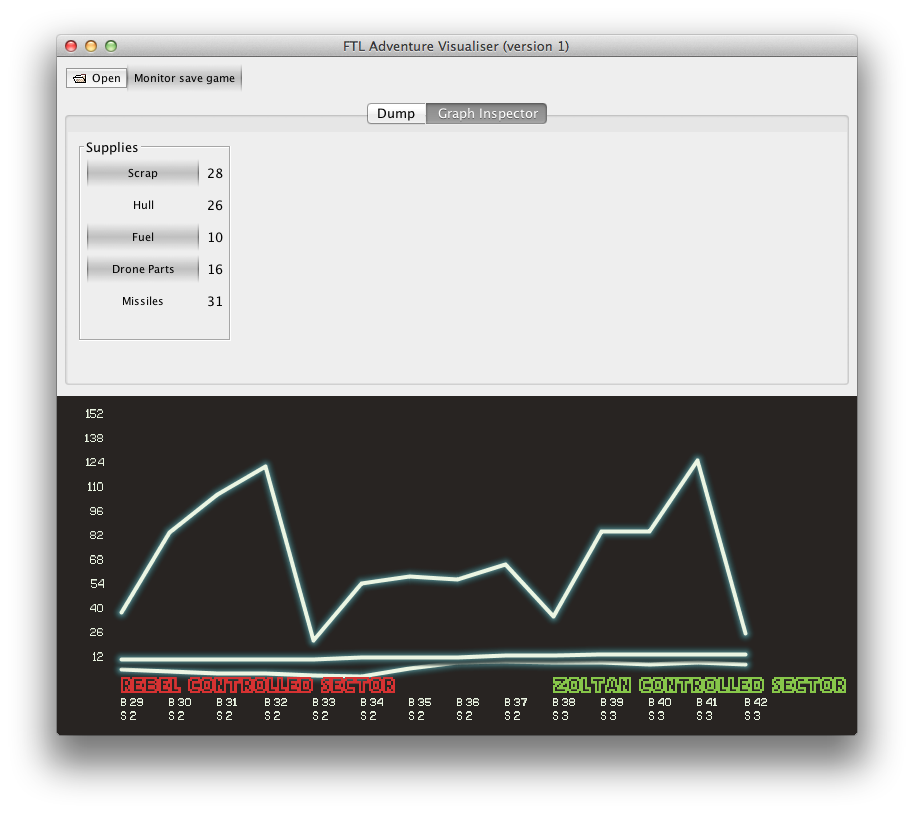
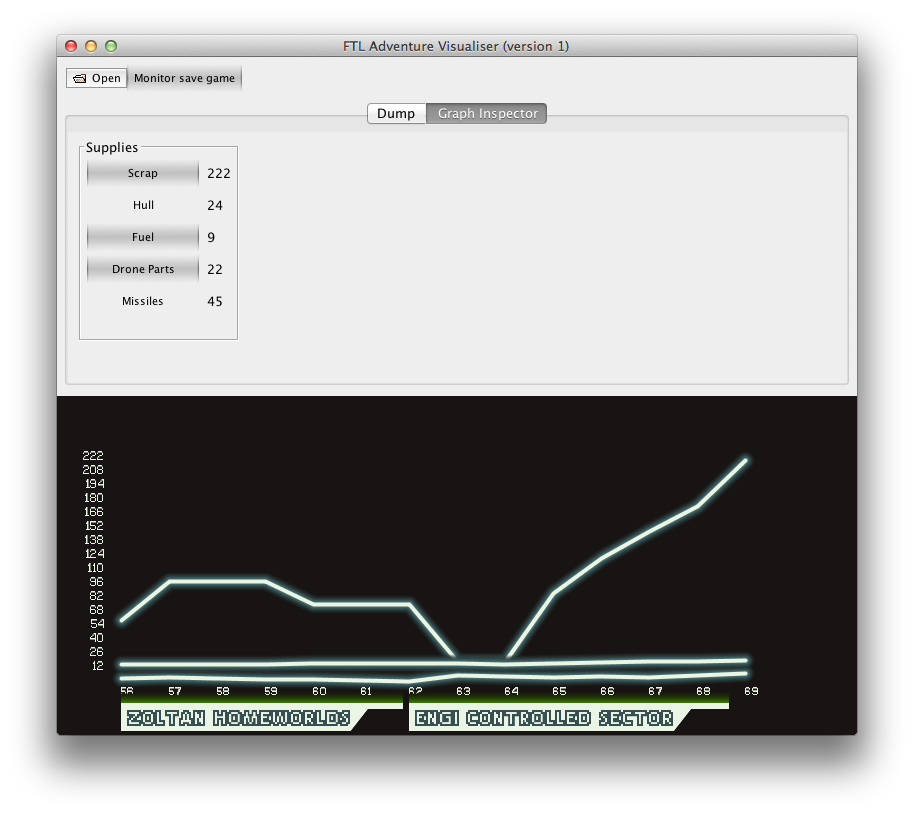
Better looking sector labels

Changed region(s): [[0.0919, 0.4914, 0.9497, 0.9214], [0.2144, 0.2764, 0.2451, 0.3378]]

diff --git a/src/main/java/net/ntg/ftl/ui/graph/GraphRenderer.java b/src/main/java/net/ntg/ftl/ui/graph/GraphRenderer.java
@@ -47,7 +47,43 @@ public class GraphRenderer extends PApplet {
 		color(36, 47, 46, 28)
 	};
 
-	Map<String,Integer> sectorTypeColor = new HashMap<String,Integer>();
+	int[] greenGlow = {
+		color(235, 245, 229, 255),
+		color(66, 119, 17, 226),
+		color(53, 106, 4, 198),
+		color(45, 92, 1, 170),
+		color(40, 80, 1, 141),
+		color(36, 72, 1, 113),
+		color(32, 65, 1, 85),
+		color(30, 61, 1, 56),
+		color(29, 58, 1, 25)
+	};
+
+	int[] redGlow = {
+		color(235, 245, 229, 255),
+		color(182, 30, 30, 226),
+		color(162, 24, 24, 198),
+		color(140, 19, 19, 170),
+		color(122, 14, 14, 141),
+		color(112, 11, 11, 113),
+		color(100, 7, 7, 85),
+		color(93, 7, 7, 56),
+		color(88, 5, 5, 25)
+	};
+
+	int[] purpleGlow = {
+		color(235, 245, 229, 255),
+		color(130, 4, 165, 226),
+		color(117, 1, 150, 198),
+		color(106, 1, 135, 170),
+		color(95, 1, 121, 141),
+		color(90, 1, 115, 113),
+		color(83, 1, 106, 85),
+		color(74, 1, 95, 56),
+		color(70, 1, 90, 25)
+	};
+
+	Map<String,Integer> hudColor = new HashMap<String,Integer>();
 
 
 	public void setup() {
@@ -59,15 +95,29 @@ public class GraphRenderer extends PApplet {
 		canvasHeight= panelHeight - (margin * 2);
 
 		// graphics
-		background(40, 36, 34);
-
 		mainFont      = loadFont(ClassLoader.getSystemResource("C&CRedAlertINET-48.vlw").toString());
-		headerFont    = loadFont(ClassLoader.getSystemResource("Half-Life1-48.vlw").toString());
-		headerFontAlt = loadFont(ClassLoader.getSystemResource("Half-Life2-48.vlw").toString());
+		headerFont    = loadFont(ClassLoader.getSystemResource("Half-Life2-48.vlw").toString());
+		headerFontAlt = loadFont(ClassLoader.getSystemResource("Half-Life1-48.vlw").toString());
 
-		sectorTypeColor.put( "CIVILIAN", color( 135, 199, 74 ) );
-		sectorTypeColor.put( "HOSTILE", color( 214, 50, 50 ) );
-		sectorTypeColor.put( "NEBULA", color( 128, 51, 210 ) );
+		hudColor.put( "BG_NORMAL", color( 55, 45, 46 ) );			// dark purple brown 	(background color)
+		hudColor.put( "BG_LIGHT", color( 122, 100, 99 ) );			// light purple brown	(background color)
+		hudColor.put( "BG_DARK", color( 24, 20, 19 ) );				// dark brown			(background color)
+		hudColor.put( "BORDER", color( 235, 245, 229 ) );			// white-greenish		(panel border color)
+		hudColor.put( "BUTTON", color( 235, 245, 229 ) );			// white-greenish		(button color)
+		hudColor.put( "BUTTON_ACTIVE", color( 255, 230, 94 ) );		// yellow				(button color)
+		hudColor.put( "MAINTEXT", color( 255, 255, 255 ) );			// white				(standard text color)
+		hudColor.put( "HEADERTEXT", color( 65, 120, 128 ) );		// turquoise			(standard text color)
+		hudColor.put( "HEADERTEXT_ALT", color( 54, 78, 80 ) );		// dark turquoise		(standard text color)
+		hudColor.put( "SECTOR_CIVILIAN", color( 135, 199, 74 ) );	// bright green			(sector color)
+		hudColor.put( "SECTOR_HOSTILE", color( 214, 50, 50 ) );		// bright red			(sector color)
+		hudColor.put( "SECTOR_NEBULA", color( 128, 51, 210 ) );		// pure purple			(sector color)
+		hudColor.put( "SYSTEM_ACTIVE", color( 100, 255, 99 ) );		// bright green			(system status color)
+		hudColor.put( "SYSTEM_OFF", color( 211, 211, 211 ) );		// light grey			(system status color)
+		hudColor.put( "SYSTEM_DAMAGE", color( 248, 59, 51 ) );		// bright red			(system status color)
+		hudColor.put( "SYSTEM_HACKED", color( 212, 70, 253 ) );		// magenta				(system status color)
+		hudColor.put( "SYSTEM_IONIZED", color( 133, 231, 237 ) );	// cyan					(system status color)
+
+		background(hudColor.get("BG_DARK"));
 
 	}
 
@@ -79,7 +129,7 @@ public class GraphRenderer extends PApplet {
 
 		if (current > previous) {
 
-			background(40, 36, 34);
+			background(hudColor.get("BG_DARK"));
 
 			for (int a = 0; a < superArray.size(); ++a) {
 
@@ -94,7 +144,7 @@ public class GraphRenderer extends PApplet {
 					beginShape();
 					for (int b = 0; b < superArray.get(a).size(); ++b) {
 						vertex(
-							margin + canvasWidth / superArray.get(a).size() * b,
+							margin + (canvasWidth / superArray.get(a).size()) * b,
 							map(
 								superArray.get(a).get(b),
 								0, ceiling,
@@ -108,37 +158,24 @@ public class GraphRenderer extends PApplet {
 				// graph x labels
 				noStroke();
 				for (int b = 0; b < superArray.get(a).size(); ++b) {
-					fill(235, 245, 227);
-					textFont(mainFont, 15);
-					textAlign(LEFT, TOP);
-					text(
-						"B " + FTLAdventureVisualiser.gameStateArray.get(b).getTotalBeaconsExplored()+"\n"+
-						"S " + FTLAdventureVisualiser.gameStateArray.get(b).getSectorNumber(),
-						margin + (canvasWidth / superArray.get(a).size()) * b,
-						canvasHeight + margin + (margin / 4)
-					);
 
+					// sector name labels
 					if (b == 0 ||
 						FTLAdventureVisualiser.gameStateArray.get(b).getSectorNumber() >
 						FTLAdventureVisualiser.gameStateArray.get(b-1).getSectorNumber()
 					) {
-						textFont(headerFontAlt, 22);
-						textAlign(LEFT, BOTTOM);
-						fill(
-							sectorTypeColor.get(
-								FTLAdventureVisualiser.sectorArray.get(
-									FTLAdventureVisualiser.gameStateArray.get(b).getSectorNumber()
-								).getType()
-							)
-						);
-						text(
-							FTLAdventureVisualiser.sectorArray.get(
-								FTLAdventureVisualiser.gameStateArray.get(b).getSectorNumber()
-							).getTitle().toUpperCase(),
-							margin + (canvasWidth / superArray.get(a).size()) * b,
-							canvasHeight + margin + (margin / 4)
-						);
+						drawSectorLabel(a, b, FTLAdventureVisualiser.gameStateArray.get(b).getSectorNumber());
 					}
+
+					// beacon numbers
+					fill(235, 245, 227);
+					textFont(mainFont, 15);
+					textAlign(LEFT, BOTTOM);
+					text(
+						FTLAdventureVisualiser.gameStateArray.get(b).getTotalBeaconsExplored(),
+						margin + (canvasWidth / superArray.get(a).size()) * b,
+						canvasHeight + margin + (margin / 4)
+					);
 				}
 
 			}
@@ -148,7 +185,8 @@ public class GraphRenderer extends PApplet {
 			fill(235, 245, 227);
 			textFont(mainFont, 15);
 			textAlign(RIGHT, BASELINE);
-			for (int y = canvasHeight; y > 0; y -= (canvasHeight * 0.06)) {
+			// TODO better algoritme for drawing y labels
+			for (int y = canvasHeight; y > 0; y -= (canvasHeight * 0.04)) {
 				text(
 					Integer.toString(y),
 					margin - (margin / 4),
@@ -156,13 +194,66 @@ public class GraphRenderer extends PApplet {
 				);
 			}
 
-			// TODO draw a vertical line at the end of each sector
-
 			// TODO draw text label on the end of each graph line that shows what data it is
 
 		}
 
 		previous = current;
 
+	}
+
+	private void drawSectorLabel( int a, int b, int sectorNumber ) {
+		int textSize       = 22;
+		int xPos           = margin + (canvasWidth / superArray.get(a).size()) * b;
+		int yPos           = canvasHeight + margin + (margin / 3);
+		int padding        = 6;
+		float glowSpread   = 1.3f;
+		String sectorTitle = FTLAdventureVisualiser.sectorArray.get(sectorNumber).getTitle().toUpperCase();
+		String sectorType  = FTLAdventureVisualiser.sectorArray.get(sectorNumber).getType();
+
+		textFont( headerFont, textSize );
+		textAlign( LEFT, TOP );
+
+
+		// sector label
+		fill( hudColor.get("BORDER") );
+		beginShape();
+		vertex( xPos, yPos );															// TL
+		vertex( xPos, yPos + textSize + padding );										// BL
+		vertex( textWidth( sectorTitle ) + xPos + padding, yPos + textSize + padding ); // BR
+		vertex( textWidth( sectorTitle ) + xPos + padding + textSize, yPos );			// TR
+		endShape(CLOSE);
+
+		// extended line
+		rect( xPos, yPos, canvasWidth - xPos, padding );
+
+		// glow color
+		int[] gradient;
+		if (sectorType == "CIVILIAN") {
+			gradient = greenGlow;
+		} else if (sectorType == "HOSTILE") {
+			gradient = redGlow;
+		} else if (sectorType == "NEBULA") {
+			gradient = purpleGlow;
+		} else {
+			gradient = blueGlow;
+		}
+
+		// apply glow effect
+		fill( hudColor.get("BG_DARK") ); // tape over existing glow
+		int glowSize = gradient.length - 1;
+		rect(xPos, yPos - (glowSize * glowSpread) + 1, canvasWidth - xPos, glowSize * glowSpread);
+		for (int s = glowSize; s >= 0; --s) {
+			fill(gradient[s]);
+			rect(xPos, yPos - (s * glowSpread), canvasWidth - xPos, padding);
+		}
+
+		// sector title text
+		fill( hudColor.get("HEADERTEXT_ALT") );
+		text( sectorTitle, xPos + padding, yPos + padding );
+
+		// tape over left side
+		fill( hudColor.get("BG_DARK") );
+		rect( xPos - padding, yPos - (glowSize * glowSpread), padding, textSize + padding + (glowSize * glowSpread) );
 	}
 }
